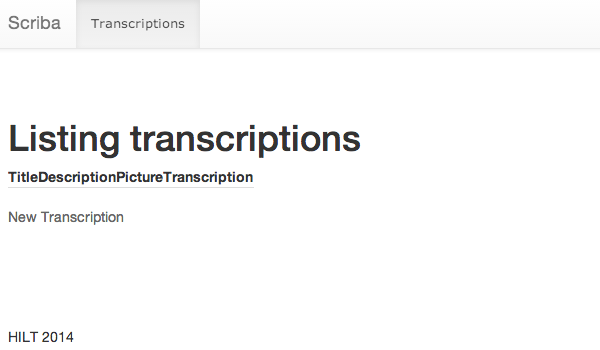
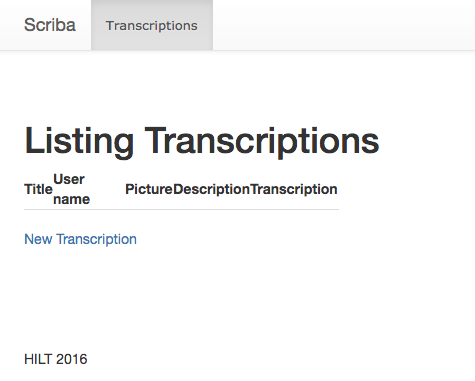
updates

diff --git a/exercise-rails3.md b/exercise-rails3.md
@@ -119,11 +119,12 @@ table, td, th { vertical-align: middle; border: none; }
 th { border-bottom: 1px solid #DDD; }
 {% endhighlight %}
 
-If you refresh your the page of transcrions ([http://localhost:3000/transcriptions][t]),
+If you refresh your the page of transcriptions ([http://localhost:3000/transcriptions][t]),
 you should see something that looks much better.
 
 ![Bootstrap Header]({{ "/assets/img/exercises/rails-three/bootstrap-header-update.png" | prepend: site.baseurl }}){: .img-responsive}
 
+There are still some problems though. Notice how username came out looking a bit wonky? Can you figure out how to fix that?
 
 ## Git
 
